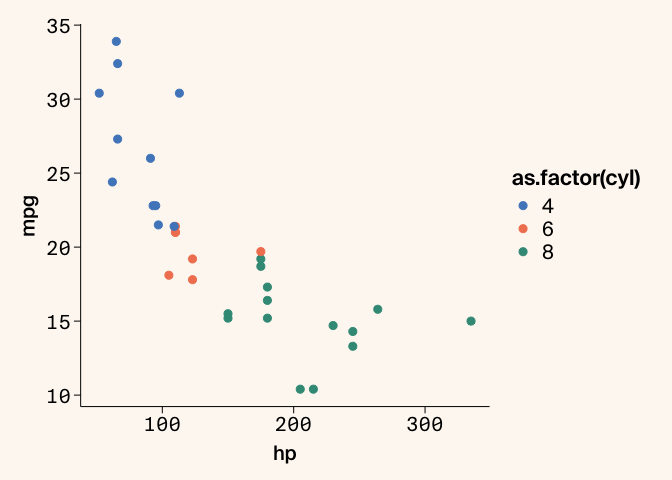
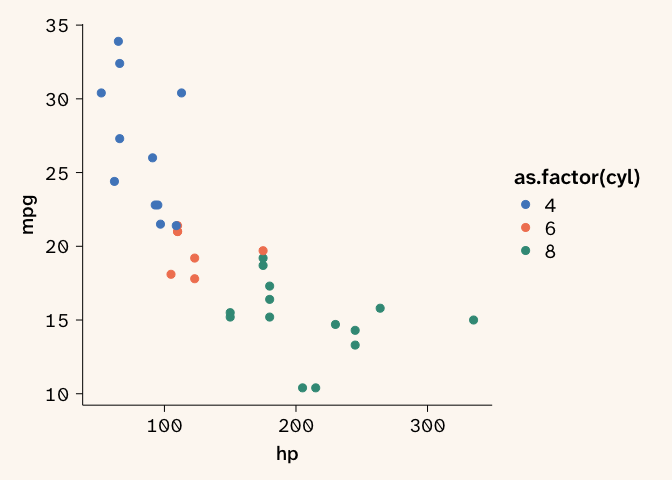
Switch to Atkinson Hyperlegible fonts, fix `size` deprecation in `arcadia.R`

diff --git a/README.md b/README.md
@@ -15,14 +15,19 @@ installing the `arcadiathemeR` package.
 remotes::install_github("Arcadia-Science/arcadiathemeR")
 ```
 
-To use the custom fonts you need to download the `TTF` formatted font
-files and place in the `Users/YOURUSERNAME/Library/Fonts/` directory.
-You can also download the fonts and double click on them to install
-using FontBook with Mac OS. Check out the Arcadia Science Brand Assets
-page in Notion to find these. This should only need to be performed once
-even if the package is updated over time. If the custom font isn’t
-available then the `sans` font type will be used insetad. These steps
-and functionality have only been confirmed to work on Mac OS.
+To use the custom fonts you need to install [Atkinson Hyperlegible
+Next](https://fonts.google.com/specimen/Atkinson+Hyperlegible+Next) and
+[Atkinson Hyperlegible
+Mono](https://fonts.google.com/specimen/Atkinson+Hyperlegible+Mono) from
+Google Fonts. Click “Get font,” “Download all,” then install the `.ttf`
+files from the `static/` folder inside each zip (double-click to install
+via FontBook on macOS, or copy them to `~/Library/Fonts/`). Note: the
+`extrafont` package requires the static TTF files – do not use the
+variable font files in the zip root. This should only need to be
+performed once even if the package is updated over time. If the custom
+fonts are not available then the system `sans` font will be used as a
+fallback. These steps and functionality have only been confirmed to work
+on macOS.
 
 ## Usage
 
@@ -42,8 +47,8 @@ are two main functions to layer on top of existing `ggplot2` plots, the
 ``` r
 library(ggplot2)
 library(arcadiathemeR)
-#> Loading Suisse fonts...
-#> All custom fonts 'Suisse Int'l, Suisse Int'l Semi Bold, Suisse Int'l Medium, Suisse Int'l Mono' are successfully loaded.
+#> Loading fonts...
+#> All custom fonts 'Atkinson Hyperlegible Next, Atkinson Hyperlegible Next SemiBold, Atkinson Hyperlegible Next Medium, Atkinson Hyperlegible Mono' are successfully loaded.
 
 ggplot(data=mtcars, aes(x=hp, y=mpg, color=as.factor(cyl))) +
   geom_point(size=2.5) +
